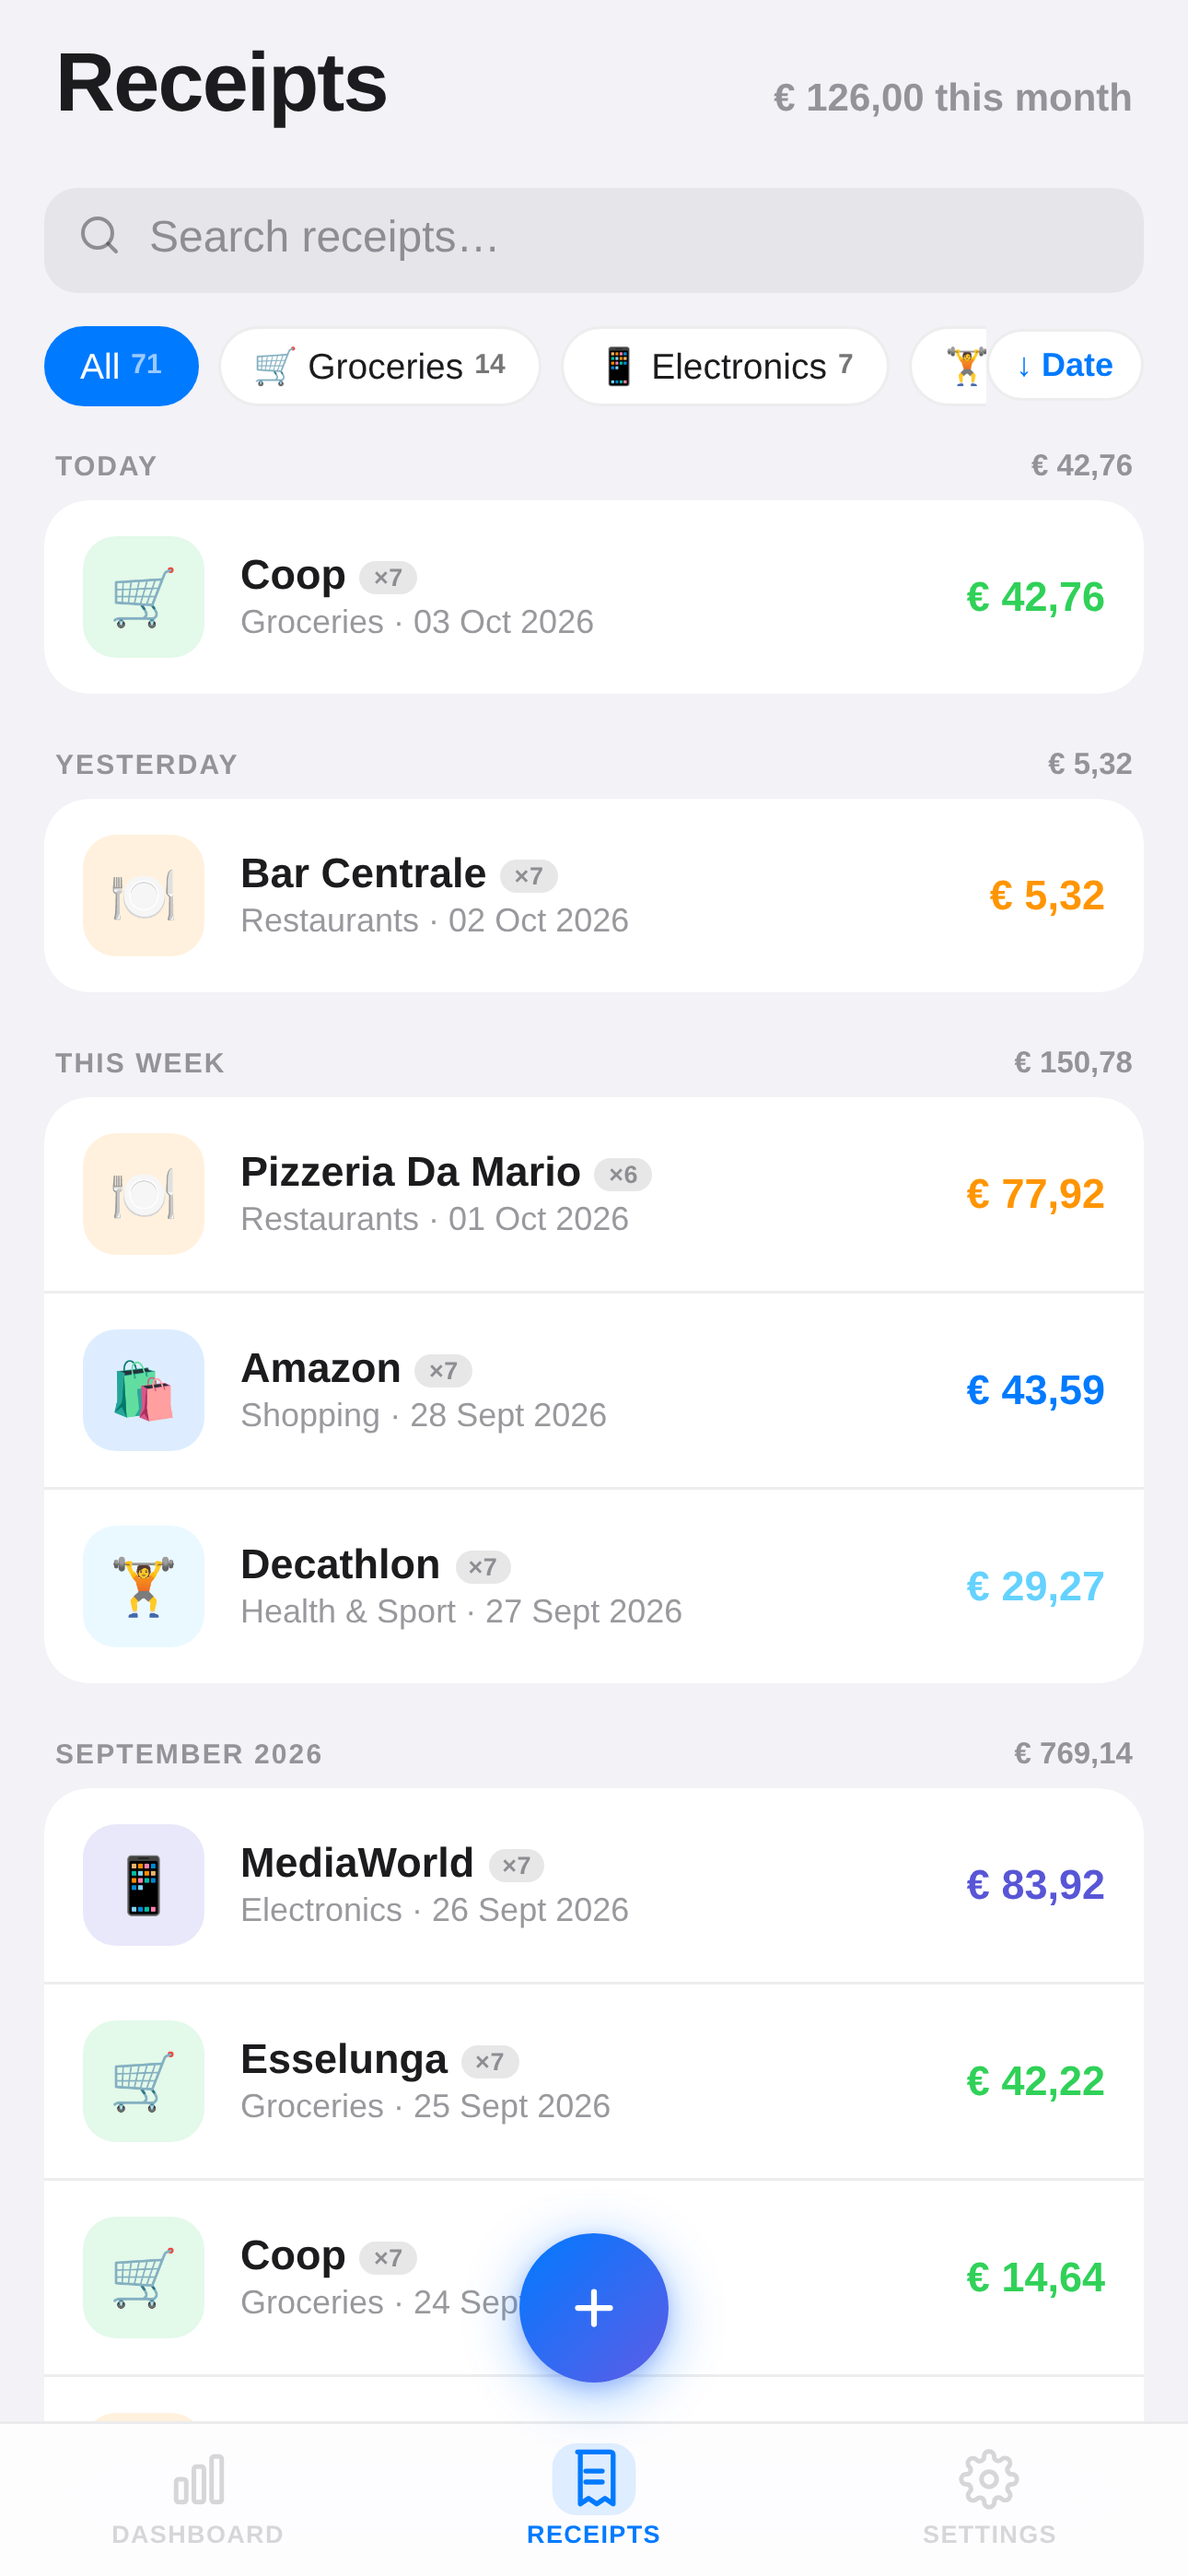
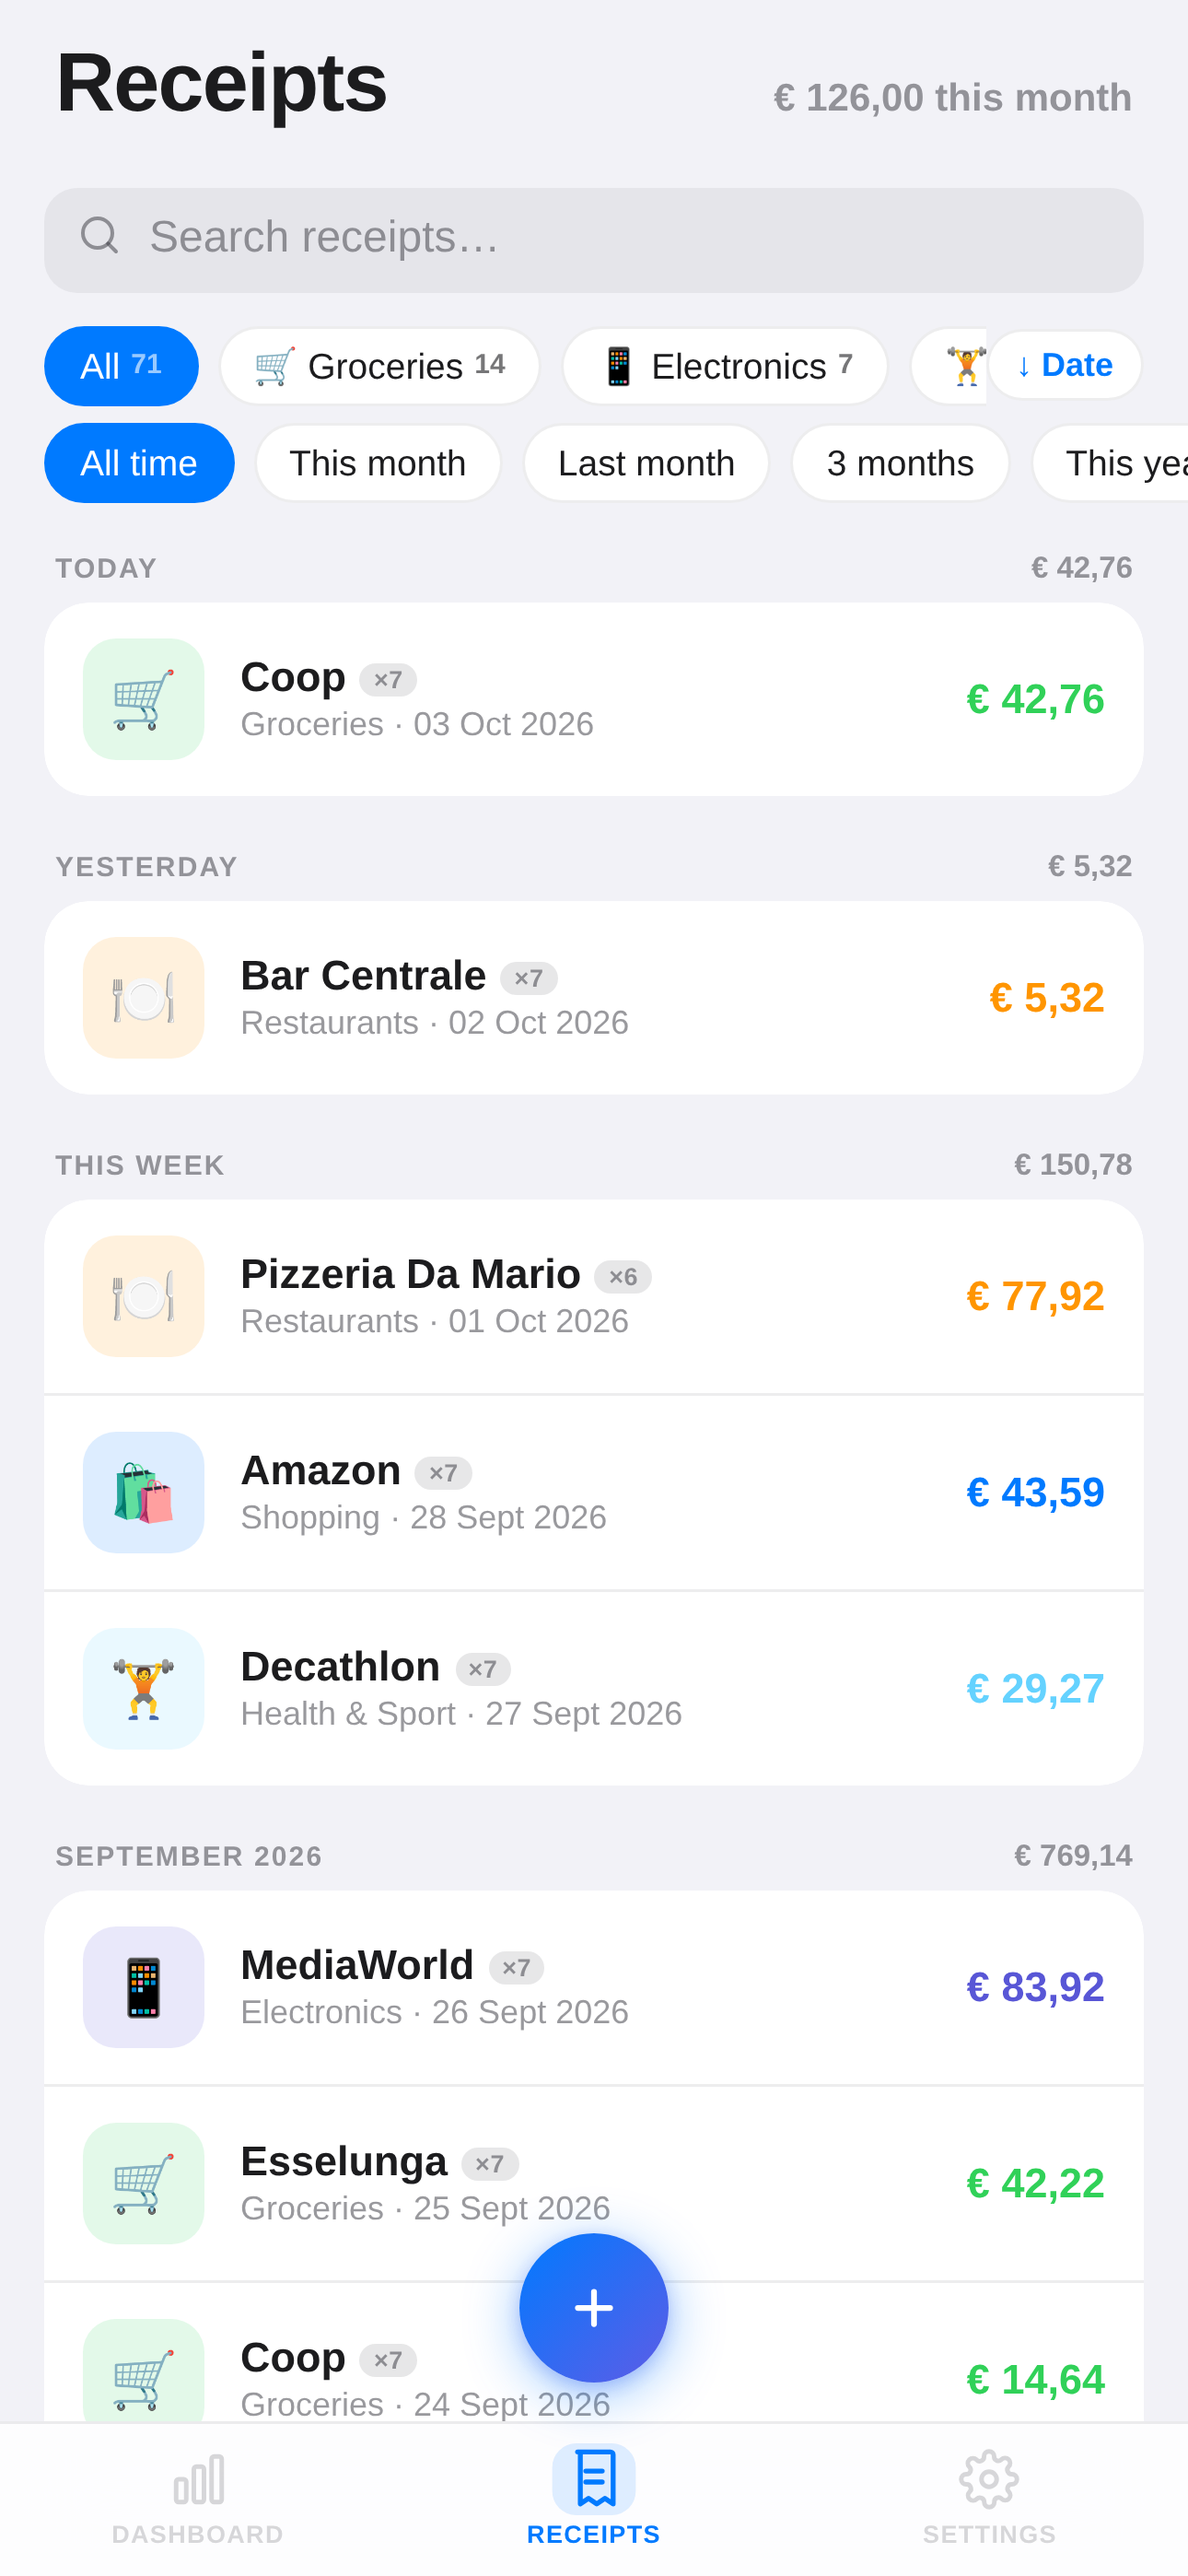
Add period filters; fix calendar day tap showing no results
- Receipts: All time / This month / Last month / 3 months / This year
- Tapping a day in the spending calendar now filters to that day (it
  previously searched store names for "YYYY-MM" and always came up empty)

Claude-Session: https://claude.ai/code/session_01R7p3HLfGKwRHy37VsbFWEN

diff --git a/docs/app.js b/docs/app.js
@@ -62,6 +62,8 @@ const state = {
   detailId: null,
   searchQ: '',
   filterCat: null,
+  filterPeriod: 'all',
+  filterDay: null,
   sortOrder: 'date_desc',
   aiTips: {},
   monthlyAnalysis: {},
@@ -600,6 +602,7 @@ const LANG = {
     'btn.show':'Mostra','btn.hide':'Nascondi','btn.remove_key':'Rimuovi Chiave',
     'btn.save_budget':'Salva Budget','btn.prev_month':'Mese precedente','btn.next_month':'Mese successivo',
     'misc.streak_days':'gg',
+    'rx.period_all':'Sempre','rx.period_month':'Questo mese','rx.period_last':'Mese scorso','rx.period_3m':'3 mesi','rx.period_year':'Quest\'anno',
     'set.notify':'Avvisi budget','set.notify_note':'Ricevi un avviso all\'80% e al 100% del budget mensile.',
     'notify.80_title':'Attenzione al budget','notify.80_body':'Hai speso il {pct}% del budget di {month}: {amount} su {budget}.',
     'notify.100_title':'Budget superato','notify.100_body':'Hai superato il budget di {month}: {amount} su {budget}.',
@@ -709,6 +712,7 @@ const LANG = {
     'btn.show':'Show','btn.hide':'Hide','btn.remove_key':'Remove Key',
     'btn.save_budget':'Save Budget','btn.prev_month':'Previous month','btn.next_month':'Next month',
     'misc.streak_days':'d',
+    'rx.period_all':'All time','rx.period_month':'This month','rx.period_last':'Last month','rx.period_3m':'3 months','rx.period_year':'This year',
     'set.notify':'Budget alerts','set.notify_note':'Get an alert at 80% and 100% of your monthly budget.',
     'notify.80_title':'Budget warning','notify.80_body':'You have spent {pct}% of your {month} budget: {amount} of {budget}.',
     'notify.100_title':'Budget exceeded','notify.100_body':'You have exceeded your {month} budget: {amount} of {budget}.',
@@ -1243,6 +1247,24 @@ function setFilter(cat) {
   renderReceipts();
 }
 
+function setPeriod(p) {
+  state.filterPeriod = p;
+  state.filterDay = null;
+  renderReceipts();
+}
+function clearDay() {
+  state.filterDay = null;
+  renderReceipts();
+}
+function periodRange(p) {
+  const n = new Date(), y = n.getFullYear(), m = n.getMonth();
+  if (p === 'month') return [new Date(y, m, 1), new Date(y, m + 1, 1)];
+  if (p === 'last')  return [new Date(y, m - 1, 1), new Date(y, m, 1)];
+  if (p === '3m')    return [new Date(y, m - 2, 1), new Date(y, m + 1, 1)];
+  if (p === 'year')  return [new Date(y, 0, 1), new Date(y + 1, 0, 1)];
+  return null;
+}
+
 function setSort(order) {
   state.sortOrder = order;
   renderReceipts();
@@ -1251,6 +1273,8 @@ function setSort(order) {
 function drillStore(name) {
   haptic('light');
   state.filterCat = null;
+  state.filterPeriod = 'all';
+  state.filterDay = null;
   gotoTab('r');
   renderReceipts(name);
 }
@@ -1572,8 +1596,10 @@ function renderCalendarSection(thisRx, mo) {
 function calDayTap(year, month, day) {
   const d = `${year}-${String(month+1).padStart(2,'0')}-${String(day).padStart(2,'0')}`;
   state.filterCat = null;
+  state.filterPeriod = 'all';
+  state.filterDay = d;
+  state.searchQ = '';
   gotoTab('r');
-  renderReceipts(d.slice(0, 7));
 }
 
 // ── RENDER: BUDGET SECTION ────────────────────────────────────
@@ -1903,6 +1929,9 @@ function renderReceipts(q) {
   if (state.filterCat) {
     list = list.filter(r => r.category === state.filterCat);
   }
+  const range = periodRange(state.filterPeriod);
+  if (range) list = list.filter(r => { const d = parseDate(r.date || r.createdAt); return d >= range[0] && d < range[1]; });
+  if (state.filterDay) list = list.filter(r => (r.date || localDateStr(parseDate(r.createdAt))) === state.filterDay);
 
   // Build store frequency map for recurring badge
   const storeFreq = {};
@@ -1933,7 +1962,14 @@ function renderReceipts(q) {
     <button class="sort-btn" onclick="setSort('${nextSort[state.sortOrder] || 'date_desc'}')">${sortLabel[state.sortOrder] || ('↓ ' + dateStr)}</button>
   </div>`;
 
-  const isFiltered = query || state.filterCat;
+  const periodBar = `
+  <div class="period-row">${state.filterDay
+    ? `<button class="fchip on" onclick="clearDay()">📅 ${fmtDate(state.filterDay)} ✕</button>`
+    : ['all','month','last','3m','year'].map(p =>
+        `<button class="fchip ${state.filterPeriod === p ? 'on' : ''}" onclick="setPeriod('${p}')">${t('rx.period_' + p)}</button>`).join('')}
+  </div>`;
+
+  const isFiltered = query || state.filterCat || state.filterDay || state.filterPeriod !== 'all';
   const filteredTotal = list.reduce((s, r) => s + (r.totalAmount || 0), 0);
   const countLine = isFiltered && list.length > 0
     ? `<div class="result-count">${t('misc.results', {n: list.length, s: state.settings.lang === 'en' ? (list.length===1?'':'s') : (list.length===1?'o':'i'), amount: fmt(filteredTotal)})}</div>`
@@ -1994,7 +2030,7 @@ function renderReceipts(q) {
       value="${esc(state.searchQ)}" oninput="renderReceipts(this.value)"/>
     ${state.searchQ ? `<button class="search-clear" onclick="renderReceipts('')" aria-label="${t('aria.clear_search')}">✕</button>` : ''}
   </div>
-  ${usedCats.length > 0 ? filterBar : ''}
+  ${usedCats.length > 0 ? filterBar + periodBar : ''}
   ${countLine}
   ${bodyHTML}
   <div class="pad-xl"></div>`;

diff --git a/docs/index.html b/docs/index.html
@@ -450,6 +450,8 @@ select.finp{-webkit-appearance:none;cursor:pointer}
   background:var(--card);color:var(--lbl);font-size:13px;font-weight:500;
   font-family:inherit;cursor:pointer;white-space:nowrap;transition:all .15s;
   display:inline-flex;align-items:center;gap:4px}
+.period-row{display:flex;gap:7px;padding:2px 16px 6px;overflow-x:auto;scrollbar-width:none}
+.period-row::-webkit-scrollbar{display:none}
 .fchip.on{background:var(--accent);color:#fff;border-color:var(--accent)}
 .chip-cnt{font-size:10px;font-weight:700;opacity:.6;font-variant-numeric:tabular-nums}
 .sort-btn{flex-shrink:0;padding:5px 10px;border-radius:20px;border:.5px solid var(--sep);

diff --git a/docs/sw.js b/docs/sw.js
@@ -1,4 +1,4 @@
-const CACHE = 'slippy-v88';
+const CACHE = 'slippy-v89';
 const CORE  = ['./', './index.html', './app.js', './manifest.json', './icon-192.png', './icon-512.png', './privacy.html'];
 
 self.addEventListener('install', e => {
